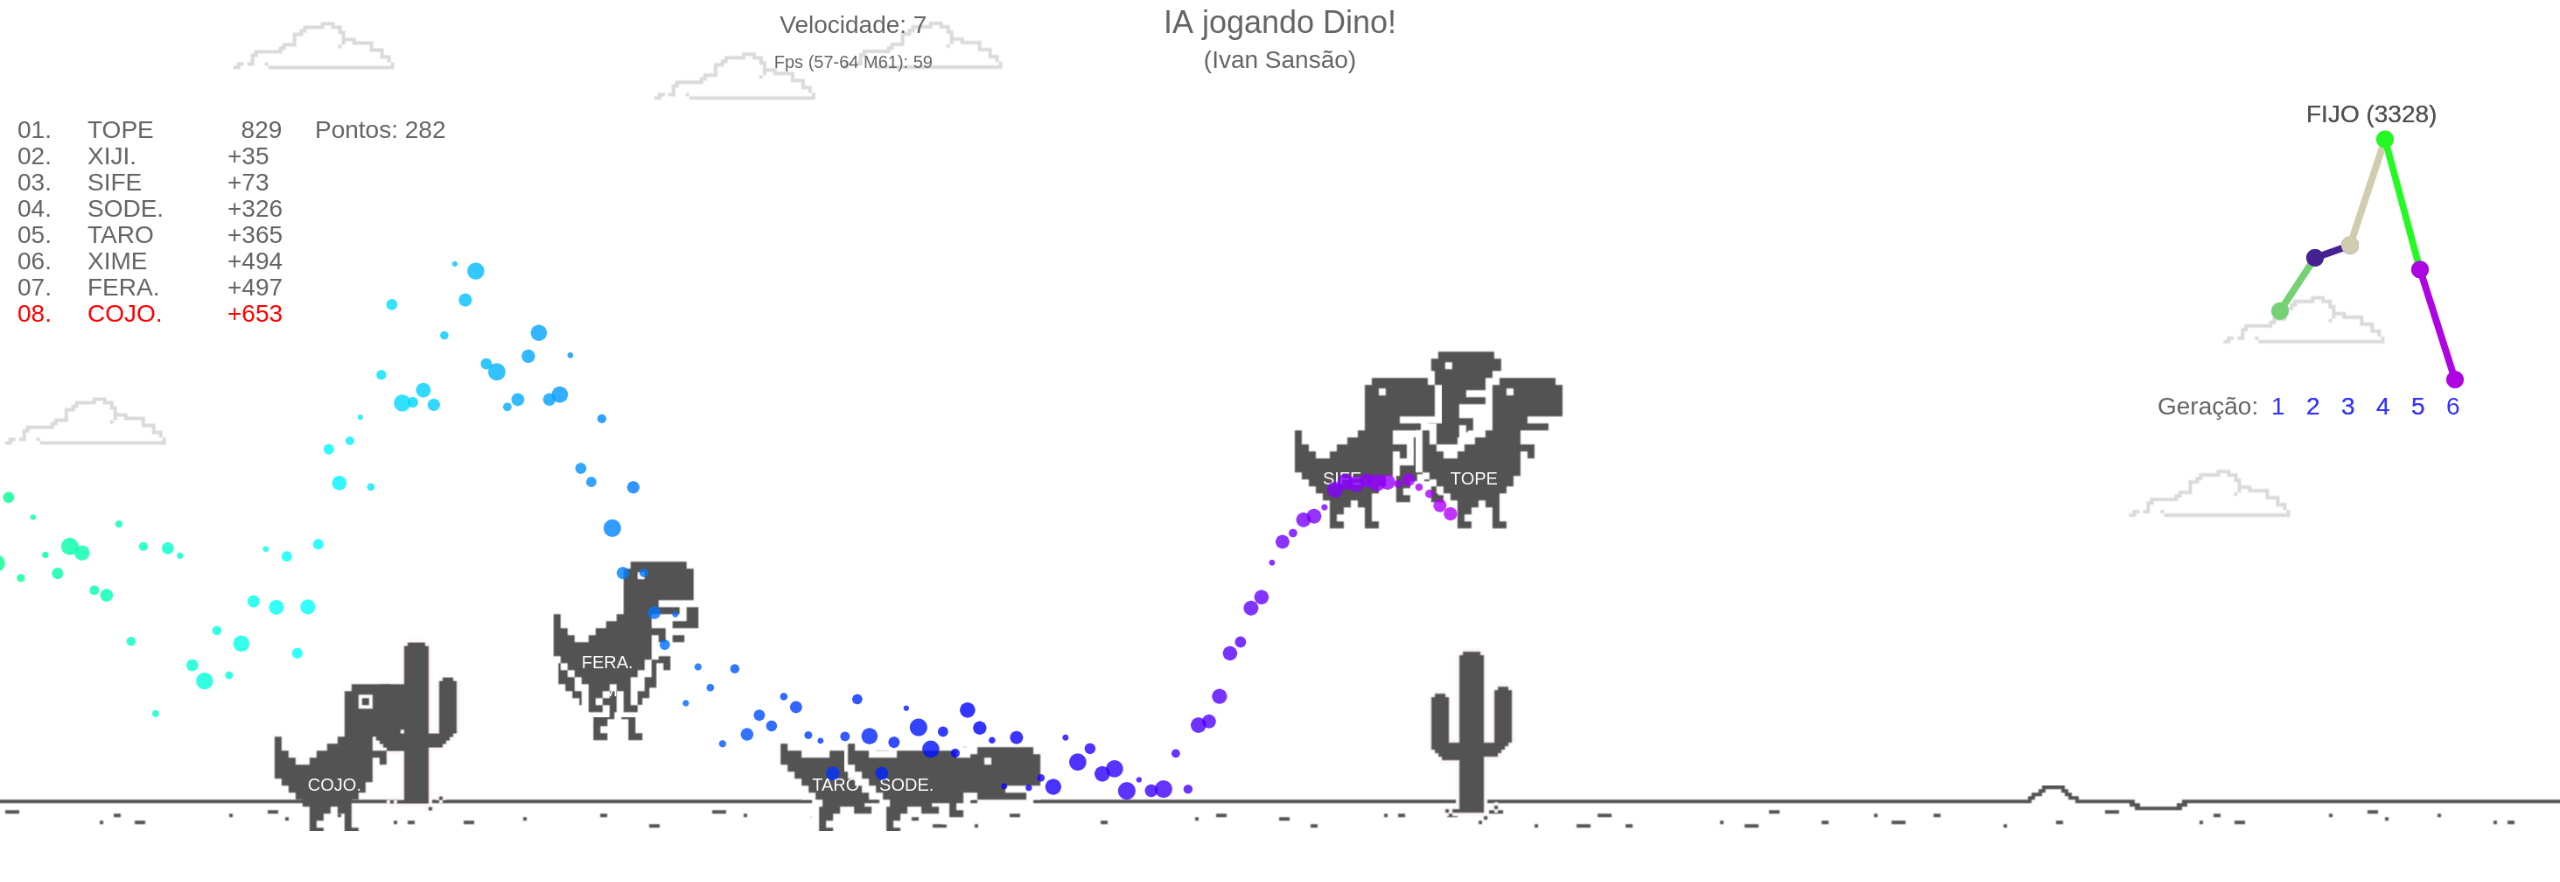
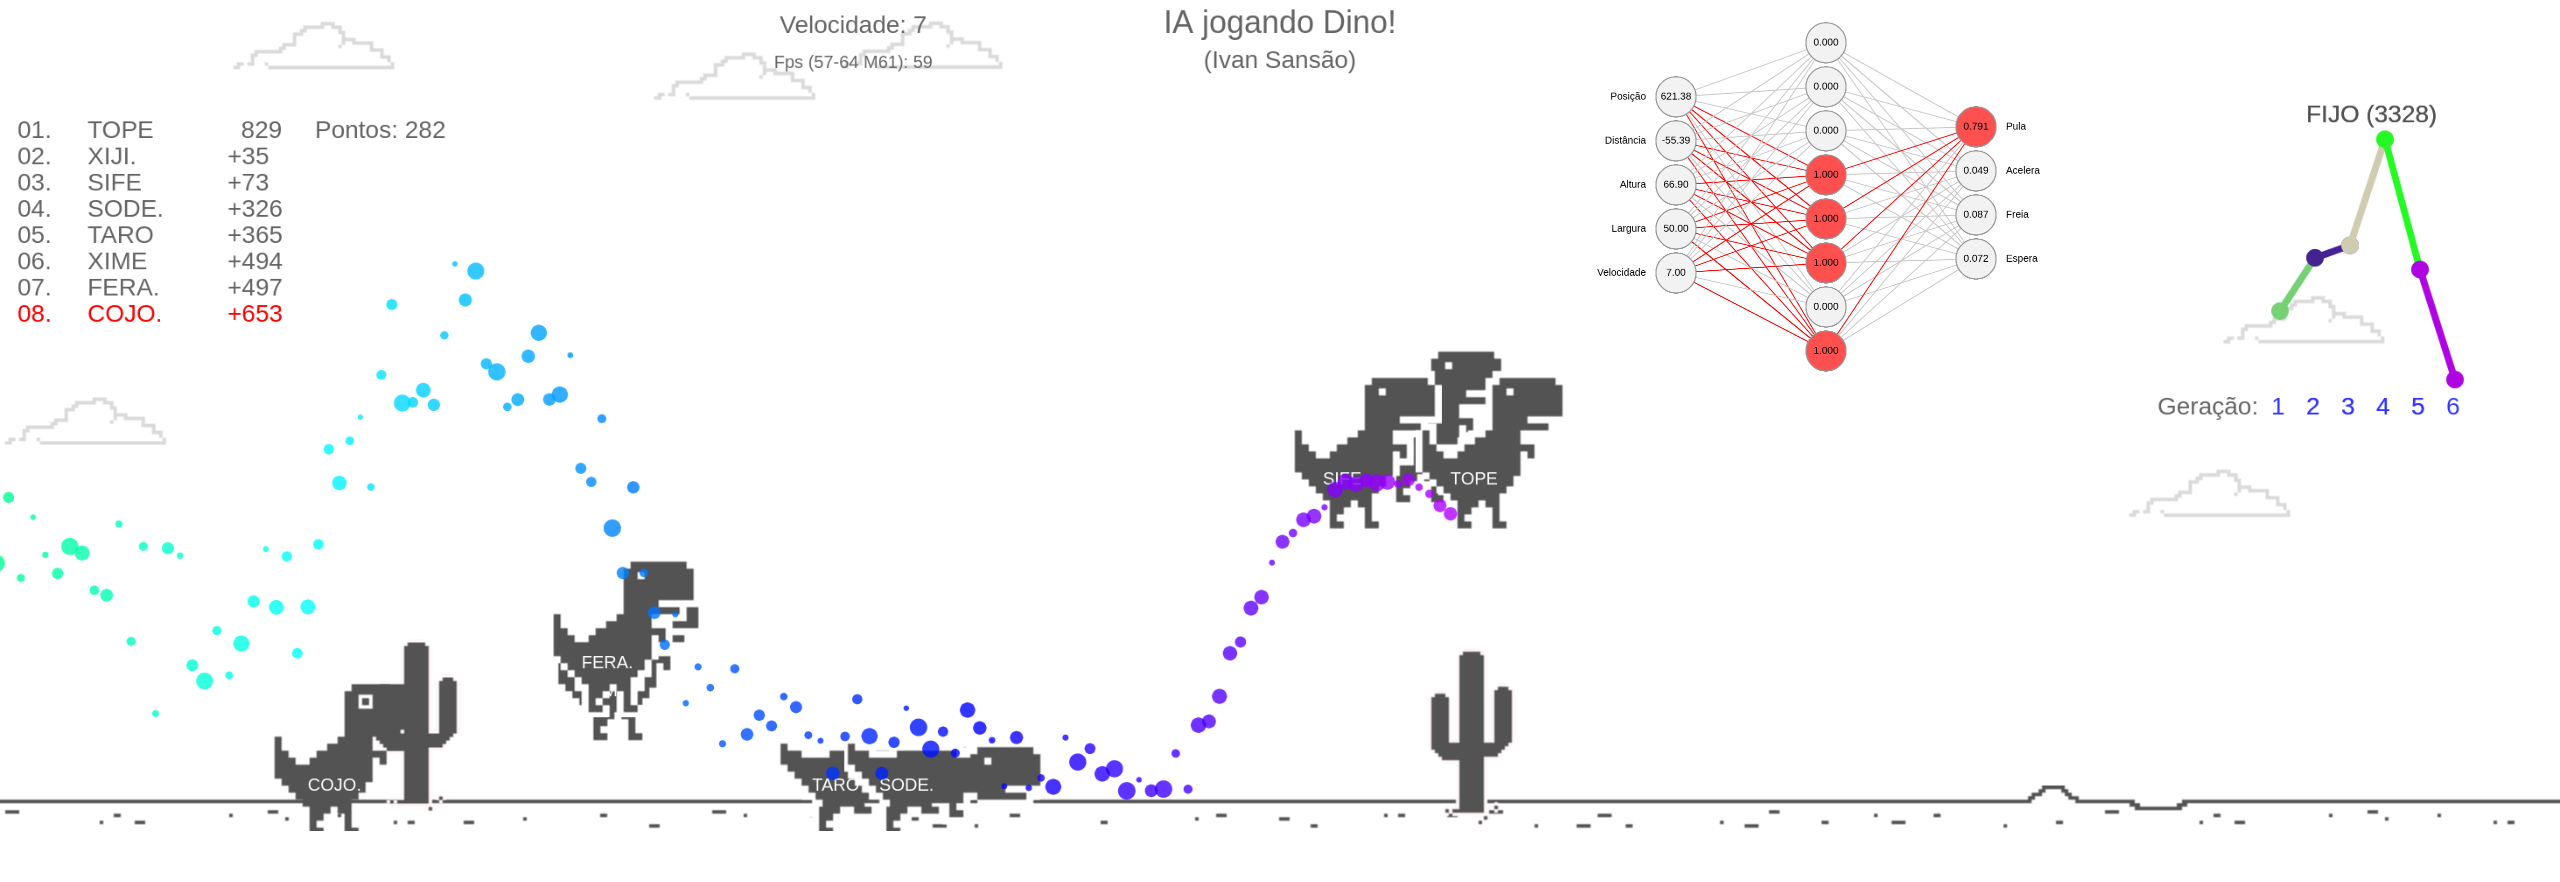
Melhorei os Prints do Jogo

Changed region(s): [[0.625, 0.0612, 0.7812, 0.4286]]

diff --git a/main.js b/main.js
@@ -577,20 +577,21 @@ class dino {
         const pesos2 = this.redeNeural.model.getWeights()[2].flatten().arraySync();
 
         const corDesligado = [242, 242, 242];
-        const corLigado = this.corFundo; // [128, 179,255];
+        const corLigado = [255, 80, 80];
 
         const offsetX = width * 0.5;
         const offsetY = height * 0.1;
         const y = offsetY;
-        const padLinha = 50;
+        const padLinha = 44;
 
         const col1 = offsetX;
-        const col2 = offsetX + 100;
-        const col3 = offsetX + 200;
+        const col2 = offsetX + 150;
+        const col3 = offsetX + 300;
 
         const row1 = offsetY + 54;
         const row2 = offsetY + 0;
         const row3 = offsetY + 84;
+        const offsetT = 3;
 
 
         // LINHAS
@@ -679,11 +680,11 @@ class dino {
 
             fill(0);
             textAlign(RIGHT);
-            text(inputNames[i], col1 - 30, row1 + (i * padLinha));
+            text(inputNames[i], col1 - 30, offsetT + row1 + (i * padLinha));
 
             fill(0);
             textAlign(CENTER);
-            text(this.redeNeural.savedInputs[i].toFixed(2), col1, row1 + (i * padLinha));
+            text(this.redeNeural.savedInputs[i].toFixed(2), col1, offsetT + row1 + (i * padLinha));
 
         }
 
@@ -692,7 +693,7 @@ class dino {
         // Camada escondida.
 
         for (let i = 0; i < this.redeNeural.firstLayer.length; i++) {
-            text(this.redeNeural.firstLayer[i].toFixed(3), col2, row2 + (i * padLinha));
+            text(this.redeNeural.firstLayer[i].toFixed(3), col2, offsetT + row2 + (i * padLinha));
         }
 
         // Última camada!
@@ -701,15 +702,15 @@ class dino {
 
             fill(0);
             textAlign(LEFT);
-            text(outputNames[i], col3 + 30, row3 + (i * padLinha));
+            text(outputNames[i], col3 + 30, offsetT+ row3 + (i * padLinha));
 
             fill(0);
             textAlign(CENTER);
-            text(this.redeNeural.savedOutputs[i].toFixed(3), col3, row3 + (i * padLinha));
+            text(this.redeNeural.savedOutputs[i].toFixed(3), col3, offsetT+ row3 + (i * padLinha));
         }
 
-        textSize(8);
-        textAlign(RIGHT);
+        // textSize(8);
+        // textAlign(RIGHT);
 
         // PESOS
         // for (let i = 0; i < pesos1.length; i++) {
